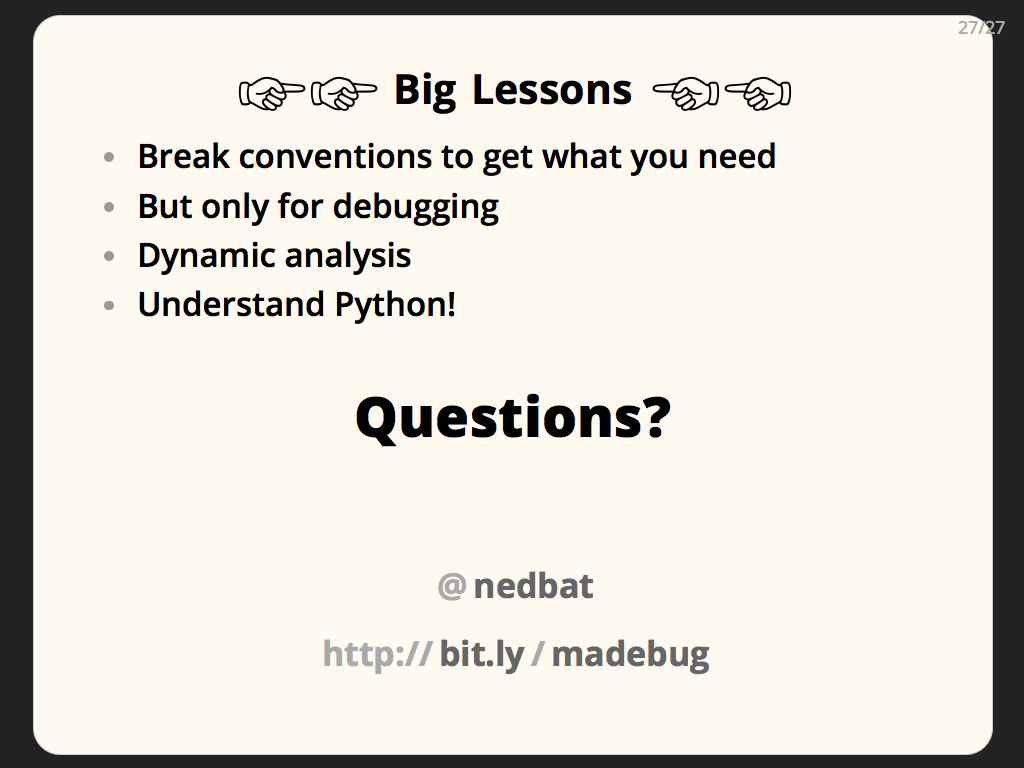
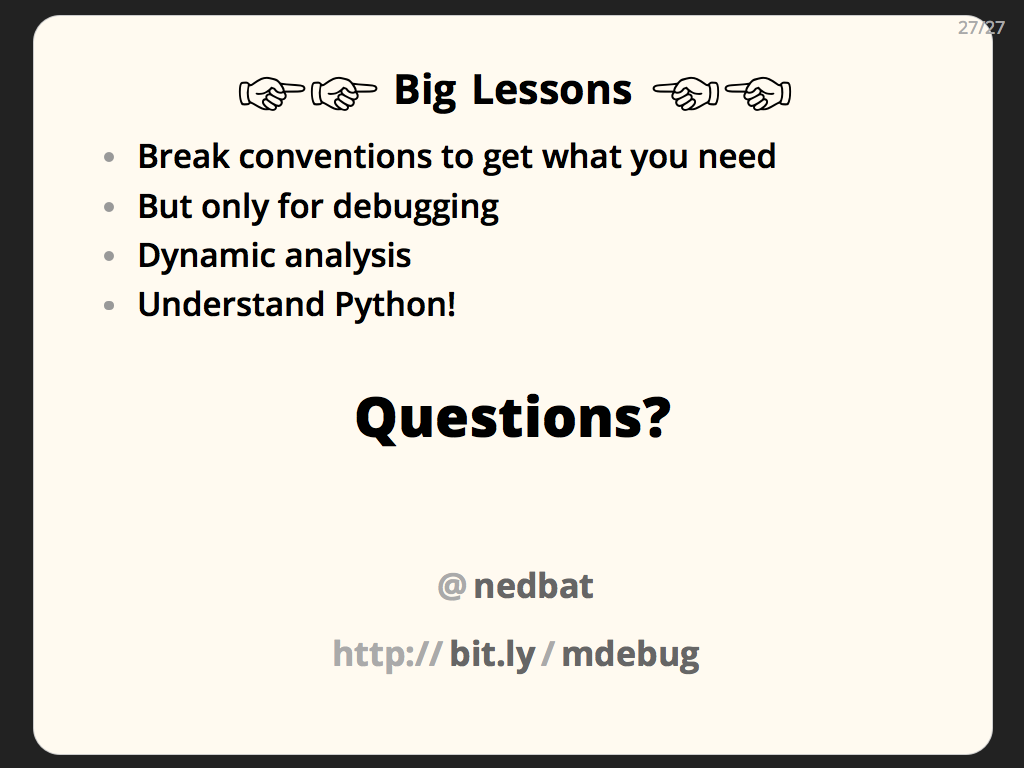
Tweaked machete mode

Changed region(s): [[0.3125, 0.8125, 0.7188, 0.875]]

diff --git a/pages/text/machete/machete.html b/pages/text/machete/machete.html
@@ -307,7 +307,6 @@ TODO:
     - static analysis (reading code, searching) vs dynamic (running code, trace functions, etc)
     - "examine some *internal* Python mechanisms"?
     - "stop modifying sys.path!"
-    - "Don'ts" on each Lessons slide
     - Python used with discipline is structured, but underneath, it's a churning caldron of chaos
 
 -->
@@ -315,7 +314,7 @@ TODO:
 <div class="slide title" data-layout="clean">
     <h1>Machete-Mode Debugging</h1>
     <h2>Ned Batchelder<br/><a class="implicit" href="http://twitter.com/nedbat"><span class="punct">@</span>nedbat</a></h2>
-    <h2><a class="implicit" href="http://bit.ly/madebug"><span class="punct">http://</span>bit.ly<span class="punct">/</span>madebug</a></h2>
+    <h2><a class="implicit" href="http://bit.ly/mdebug"><span class="punct">http://</span>bit.ly<span class="punct">/</span>mdebug</a></h2>
 </div>
 
 
@@ -558,7 +557,13 @@ and first/admin.py</p>
 
 <div class="slide">
     <h1>Bad Layout</h1>
-    <pre>
+    <pre class="python incremental">
+    import thing.apps.first.models
+    ...
+    import first.models
+    </pre>
+
+    <pre class="incremental">
     project *
     ├── thing
     │   └── apps *
@@ -569,13 +574,10 @@ and first/admin.py</p>
             └── one/      compute.py
     </pre>
 
-    <pre class="python">
+    <pre class="python incremental">
     sys.path.append("thing/apps")
     sys.path.append("other/apps")
     ...
-    import thing.apps.first.models
-    ...
-    import first.models
     </pre>
 
 </div>
@@ -1051,17 +1053,17 @@ it was easy for us to disable.</p>
     </ul>
     <pre class="python incremental">
     # Prepare to run instructor code
-    random.seed(1701)       # student.seed
+    random.seed(1702)       # student.seed
     </pre>
     <pre class="python incremental">
-    # run instructor code
+    # Instructor code
     import foo, bar, baz
 
-    assert random.randint(1, 1000) == 492
+    print(random.randint(1, 1000))      # 420?
     </pre>
     <ul>
-    <li class="incremental">Answer is different first time</li>
-    <li class="incremental">Answer is same second, third, etc.</li>
+    <li class="incremental">First time: 284</li>
+    <li class="incremental">Second, third, etc: 420</li>
     <li class="incremental">Something wrong during import?</li>
     </ul>
 </div>
@@ -1171,7 +1173,8 @@ value for that argument.</p>
     <ul>
     <li class="incremental">Exceptions are a good way to get information</li>
     <li class="incremental">Don't be afraid to blow things up</li>
-    <li class="incremental spaced"><b>Don't</b> use mutable default values</li>
+    <li class="incremental spaced"><b>Don't</b> use global state</li>
+    <li class="incremental"><b>Do</b> use your own Random object</li>
     <li class="incremental"><b>Do</b> suspect third-party code</li>
     </ul>
 </div>
@@ -1187,6 +1190,17 @@ value for that argument.</p>
 
     <li>Don't be timid about blowing things up: in this case, the monkeypatch
     destroys the program, but it gives us useful information.</li>
+
+    <li>One of the causes of this problem was that our code, and the
+    third-party code, was using the single global random number sequence.  We
+    were sharing global mutable state.  The best solution to this problem was
+    to create our own private Random instance, and use that.  Then we could be
+    sure that we were getting numbers from the sequence we seeded.</li>
+
+    <li>A common mistake when debugging programs is to assume that something
+    else is at fault: the compiler, the helper libraries, anything.  Usually,
+    this is wrong: it's usually your own code that is to blame.  But sometimes,
+    it really is someone else's fault.</li>
 
 </ul>
 
@@ -1212,7 +1226,7 @@ value for that argument.</p>
     <div class="incremental">
     <h1 style="padding-top: 0em">Questions?</h1>
     <h2 style="margin-top: 3em"><span class="punct">@</span>nedbat</h2>
-    <h2 style="margin-top: .5em"><a class="implicit" href="http://bit.ly/madebug"><span class="punct">http://</span>bit.ly<span class="punct">/</span>madebug</a></h2>
+    <h2 style="margin-top: .5em"><a class="implicit" href="http://bit.ly/mdebug"><span class="punct">http://</span>bit.ly<span class="punct">/</span>mdebug</a></h2>
     </div>
 </div>
 
@@ -1245,7 +1259,7 @@ this, and can help you find techniques to solve them.</p>
 <div class="layout" data-name="default">
     <content></content>
     <div class="footer">
-        <span class="left"><a class="implicit" href="http://bit.ly/madebug">bit.ly<span class='punct'>/</span>madebug</a></span>
+        <span class="left"><a class="implicit" href="http://bit.ly/mdebug">bit.ly<span class='punct'>/</span>mdebug</a></span>
         <span class="right"><a class="implicit" href="http://twitter.com/nedbat"><span class='punct'>@</span>nedbat</a></span>
         <hr class="defloat" />
     </div>
